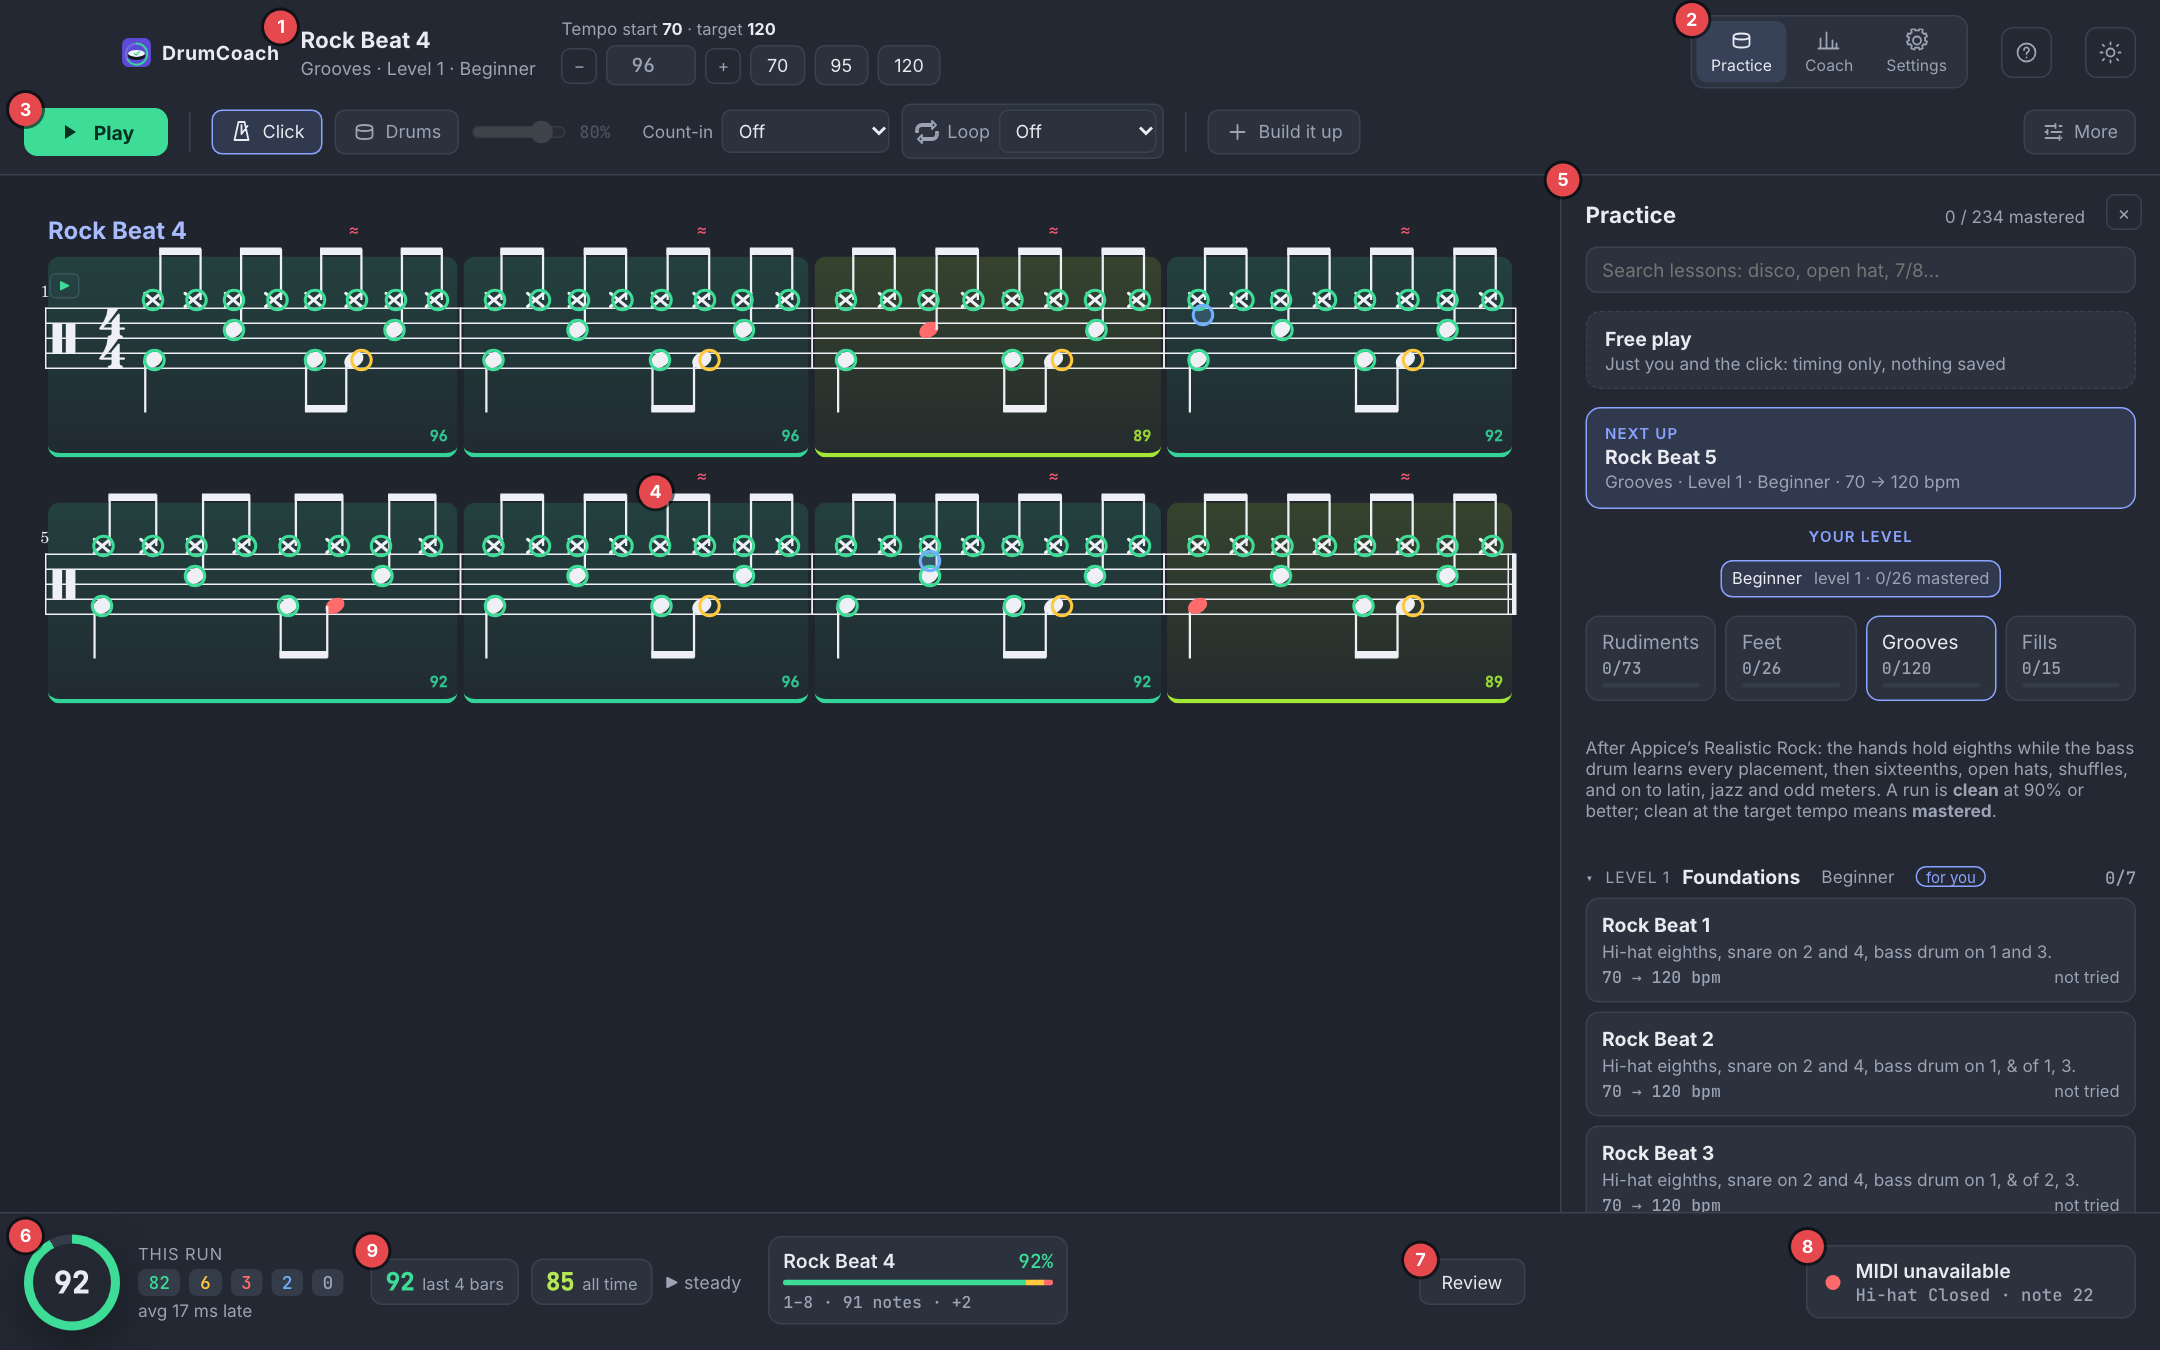
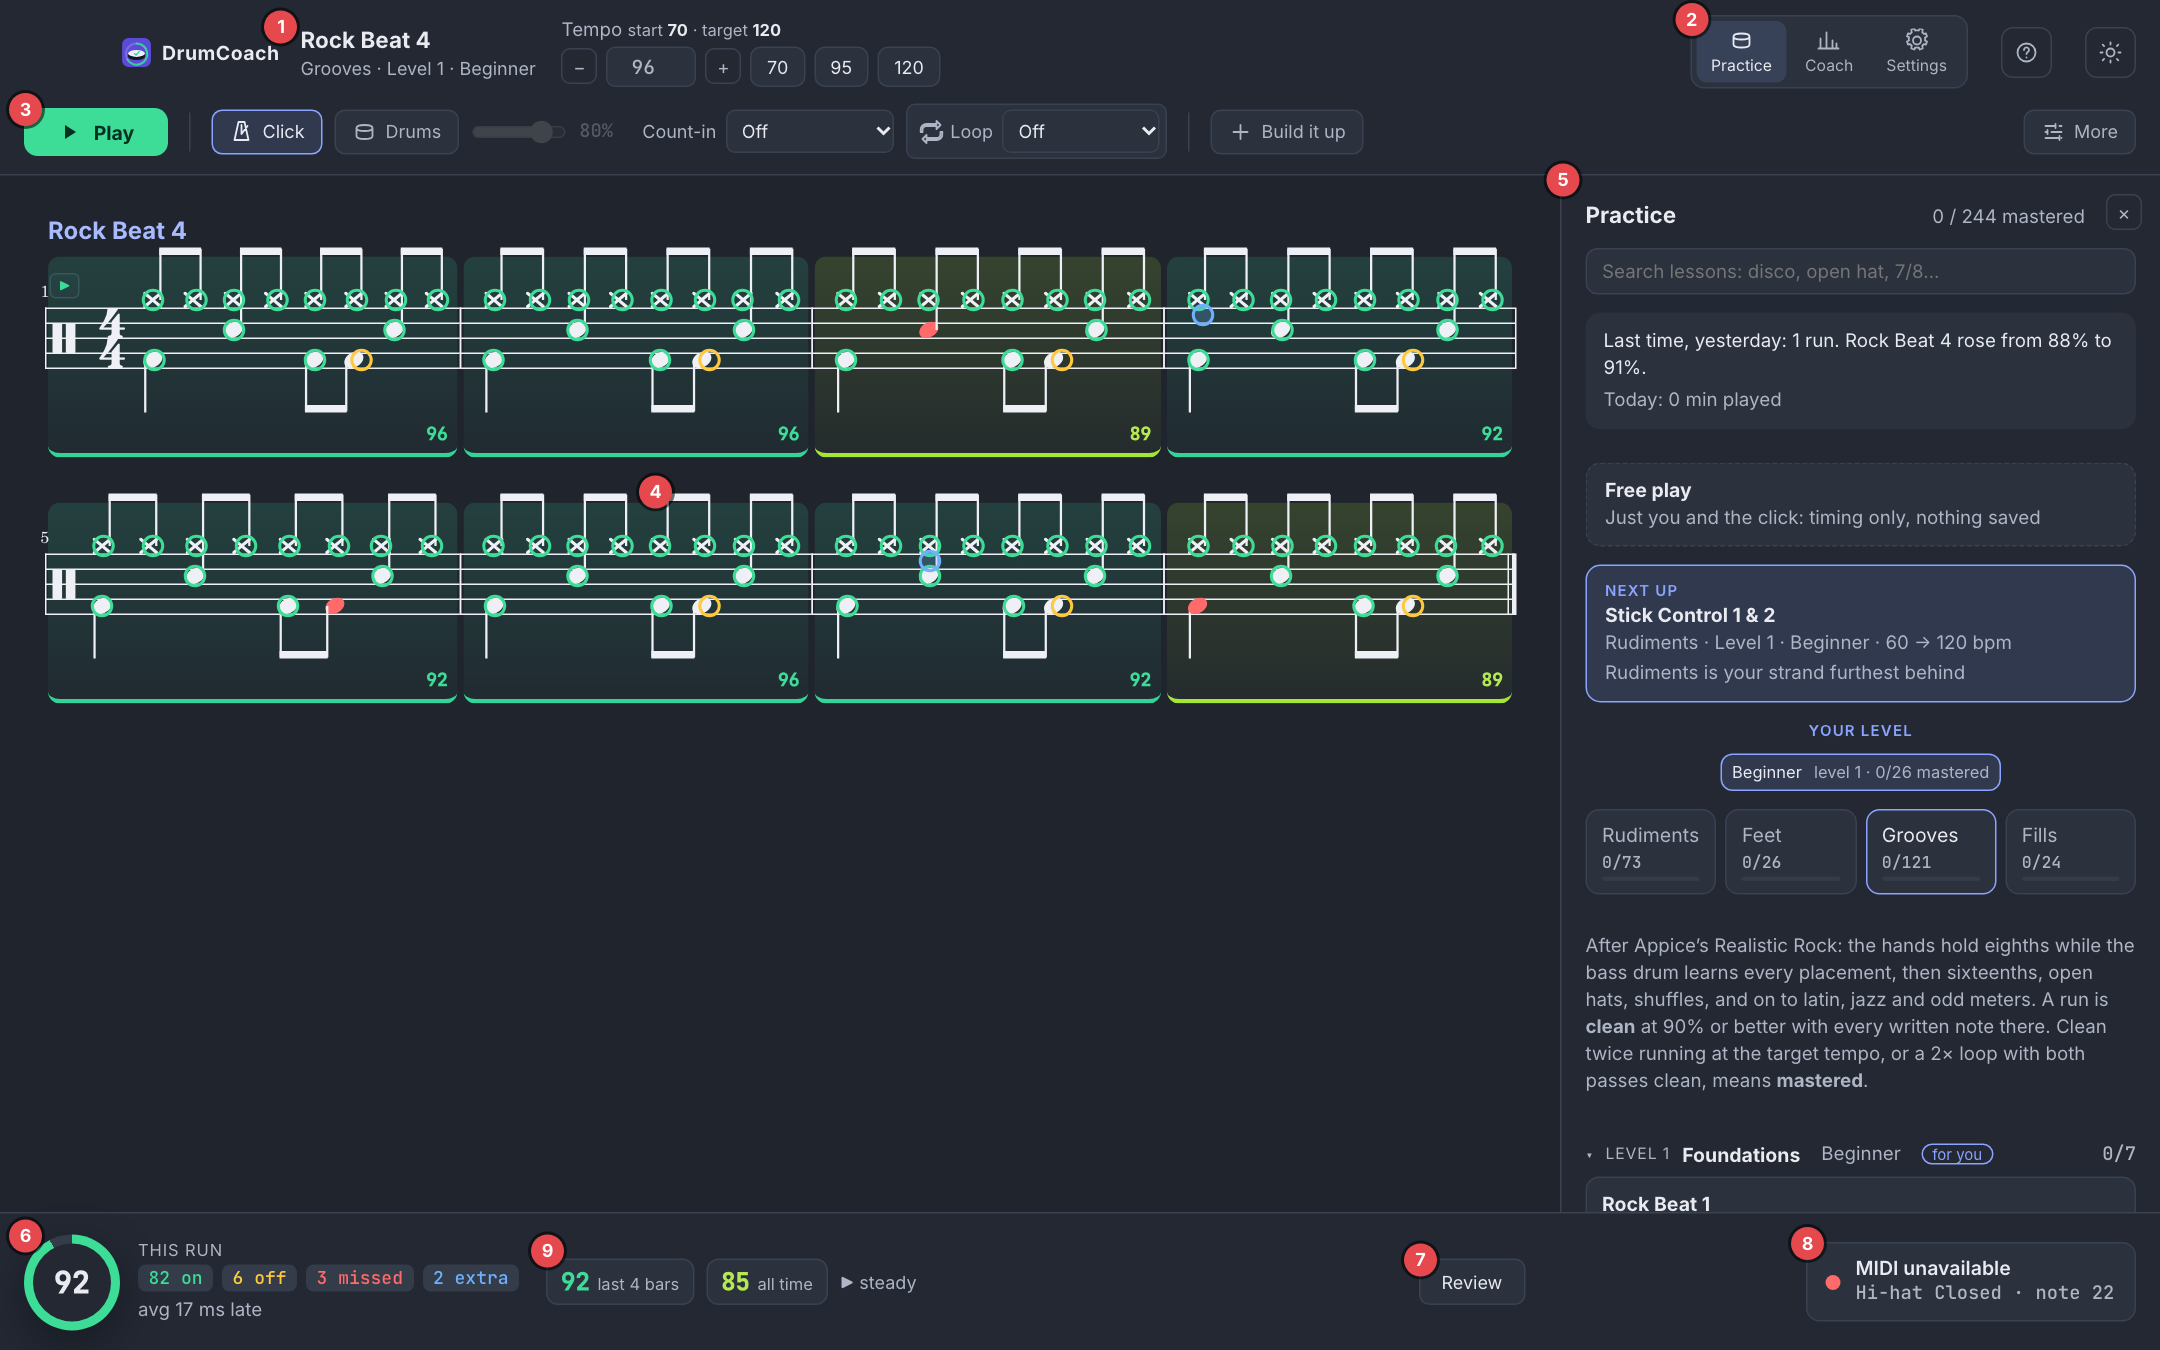
DrumCoach 1.25.1

diff --git a/README.md b/README.md
@@ -10,14 +10,14 @@ written notes as you play.
   </a>
 </p>
 
-Version 1.20.0 · free · for Macs with Apple silicon (M1 or later) ·
+Version 1.25.1 · free · for Macs with Apple silicon (M1 or later) ·
 signed and notarized by Apple · [all versions](https://github.com/meolsen/drumcoach/releases)
 
 ![DrumCoach after a run: the graded lesson, the lesson list and the live score](img/overview.png)
 
 ## What it does
 
-- **234 lessons** in four strands: rudiments and hand studies, feet and
+- **244 lessons** in four strands: rudiments and hand studies, feet and
   independence drills, grooves, and fills, in five levels from first week to advanced.
 - **Build it up.** A groove that will not come together can be played one layer at a
   time: hi-hat first, then the snare, then the bass drum a note at a time.
